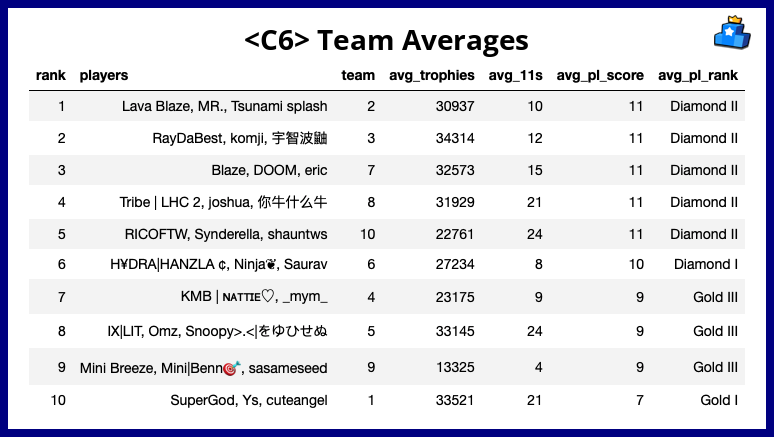
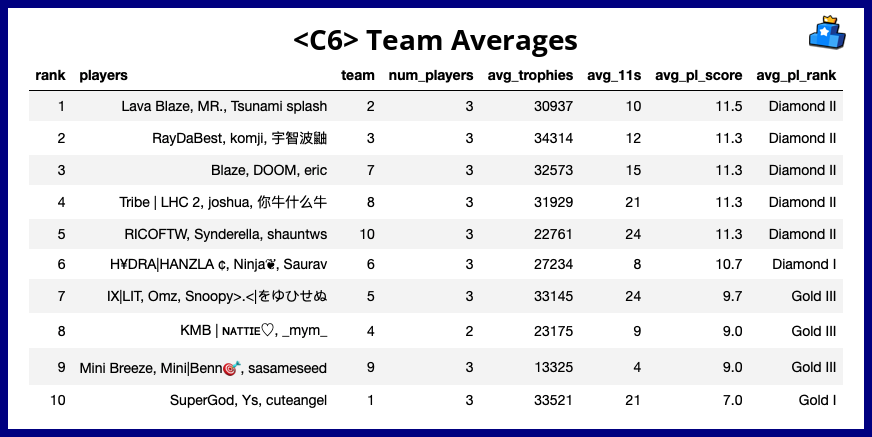
format team stats

diff --git a/aura.py b/aura.py
@@ -141,22 +141,30 @@ df1 = df1.fillna('')
 dfi.export(df1.style.hide_index(), c9_csv_output)
 print('[Output] '+c9_csv_output)
 
-team1_q = """
+team_q_standard = """
 select team,
+       count(*) as num_players,
        sum(trophies)/count(trophies) as avg_trophies,
        sum(level_11s)/count(level_11s) as avg_11s,
-       sum(pl_score)/sum(case When pl_score = 0 Then 0 Else 1 End) as avg_pl_score,
+       ROUND(AVG(CASE WHEN pl_score <> 0 THEN pl_score ELSE NULL END),1) as avg_pl_score,
        group_concat(player) as players
-       from df1
+       from df
        group by team
-       order by avg_pl_score desc
+       order by avg_pl_score desc, avg_trophies desc
 """
-team1 = sqldf(team1_q, globals()).fillna(0)
-team1['players'] = team1['players'].map(lambda x: x.replace(',', ', '))
-team1['rank'] = team1.index+1
-team1['avg_pl_score'] = team1['avg_pl_score'].map(int)
-team1 = team1[['rank','players','team','avg_trophies','avg_11s','avg_pl_score']]
-team1['avg_pl_rank'] = team1['avg_pl_score'].map(lambda x: mapping_dict[x])
+
+def process_team(df_value):
+    team_q = team_q_standard.replace('df',df_value)
+    team1 = sqldf(team_q, globals()).fillna(0)
+    team1['players'] = team1['players'].map(lambda x: x.replace(',', ', '))
+    team1['rank'] = team1.index+1
+    team1['avg_pl_score'] = team1['avg_pl_score']
+    team1 = team1[['rank','players','team','num_players','avg_trophies','avg_11s','avg_pl_score']]
+    team1['avg_pl_rank'] = team1['avg_pl_score'].map(lambda x: mapping_dict[int(x)])
+    team1['avg_pl_score'] = team1['avg_pl_score'].astype('str')
+    return team1
+
+team1 = process_team('df1')
 
 color_scheme2 = ["#072094", "#BBC3E8"]
 df2, na2 = read_csv(c6_sheet, c6_brawlers_csv, c6_output, 'C6', color_scheme2)
@@ -167,22 +175,7 @@ dfi.export(df2.style.hide_index(), c6_csv_output)
 print('[Output] '+c6_output)
 print('[Output] '+c6_csv_output)
 
-team2_q = """
-select team,
-       sum(trophies)/count(trophies) as avg_trophies,
-       sum(level_11s)/count(level_11s) as avg_11s,
-       sum(pl_score)/sum(case When pl_score = 0 Then 0 Else 1 End) as avg_pl_score,
-       group_concat(player) as players
-       from df2
-       group by team
-       order by avg_pl_score desc
-"""
-team2 = sqldf(team2_q, globals()).fillna('')
-team2['players'] = team2['players'].map(lambda x: x.replace(',', ', '))
-team2['rank'] = team2.index+1
-team2 = team2[['rank','players','team','avg_trophies','avg_11s','avg_pl_score']]
-team2['avg_pl_rank'] = team2['avg_pl_score'].map(lambda x: mapping_dict[x])
-
+team2 = process_team('df2')
 
 def plot_bar(clubname, excel_file, sheetname, output_file):
     df = pd.read_excel(excel_file, sheet_name=sheetname,engine='openpyxl', skiprows=2)
